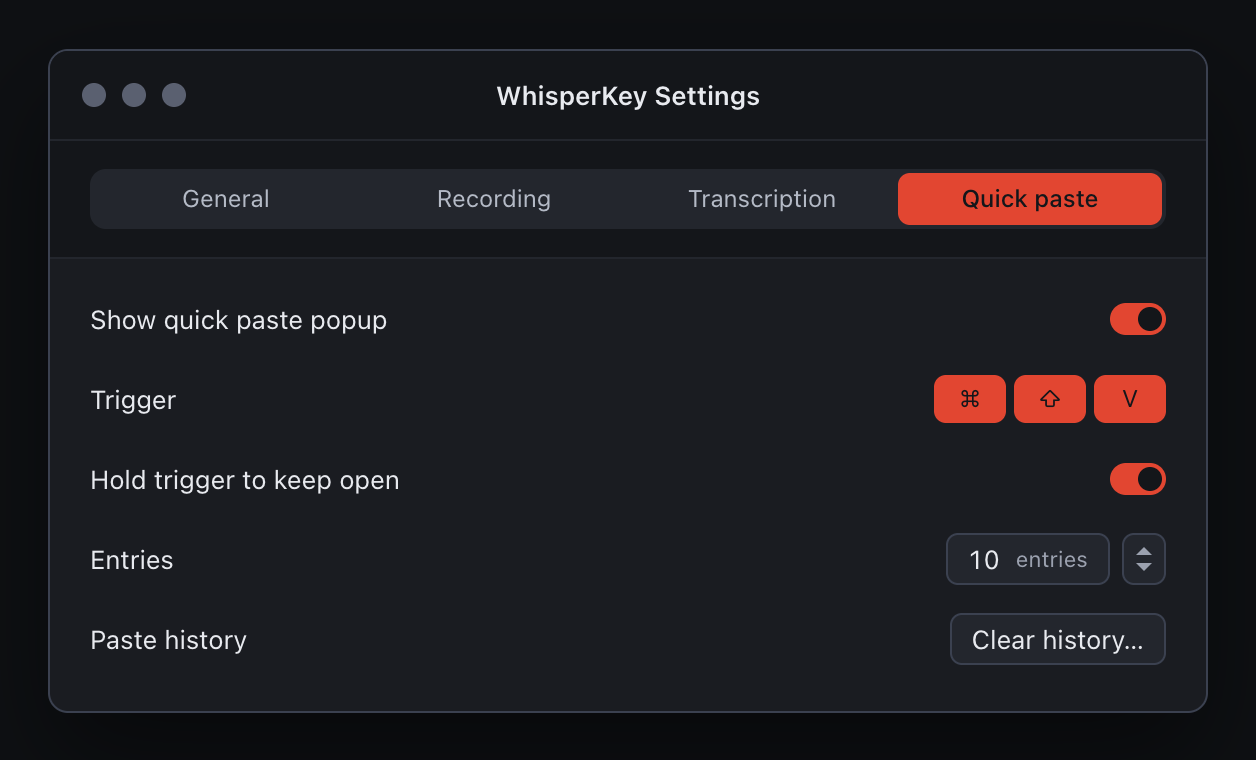
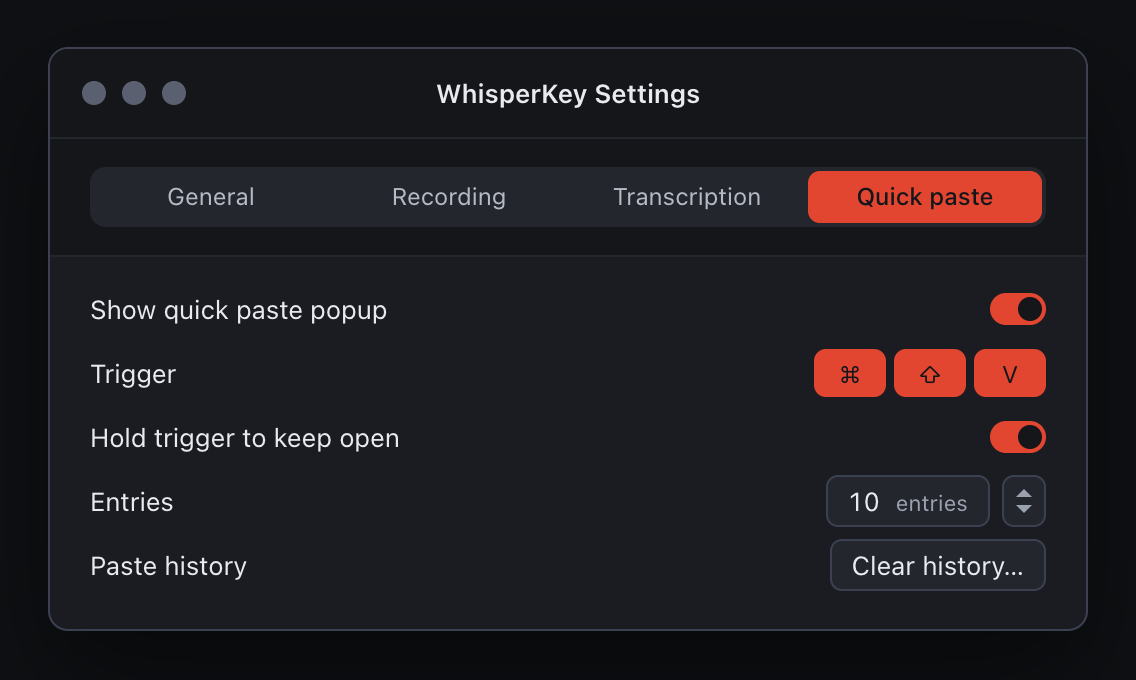
Bring in the revised design: Settings 520 wide with rows of 32
What/Why: the owner asked for one Settings window size in both themes,
halfway between Classic (460, rows of 24) and Midnight (580, rows of 40).
The design agent redrew the four Settings sections at 520 with rows of 32;
this brings that design file into the repository with its mockups.

1. docs/design/dark/master-design.dc.html replaced with the revised file:
   Settings sections 520 wide, form row 32, a "+ settings window 520" sheet
   entry, and a new Theme row drawn with 40pt icons and names under them.
   support.js is unchanged.
2. docs/design/tokens.md follows the sheet: form row 32, + settings window
   520, the Theme picker entry.
3. The four settings-*.png re-exported, settings-theme-row.png added.
4. scripts/export-mockups.mjs: the headless-Chrome export the mockups
   README described in prose, now a script; the README points to it.
5. ThemeTokens.midnight.sizes.formRow 40 -> 32, held to tokens.md by
   TokenSheetTests. Nothing on master draws with it yet.

Tests: scripts/verify.sh -t green, 556 tests, 0 failures. TokenSheetTests
fails with formRow left at 40 (checked). Mockups inspected by eye.
Risk: low; design documents, one token no view reads yet.

diff --git a/docs/design/dark/master-design.dc.html b/docs/design/dark/master-design.dc.html
@@ -77,11 +77,12 @@
         <div style="display:flex;gap:10px;align-items:center"><div style="width:20px;height:20px;border-radius:4px;border:1px solid #5A6070;flex:none"></div>+ 4 · checkbox</div>
         <div style="height:1px;background:#23262D;margin:5px 0"></div>
         <div><span style="color:#9BA1AF">list row</span> 34 <span style="color:#9BA1AF">· popover, quick paste, full history, checklist</span></div>
-        <div><span style="color:#9BA1AF">form row</span> 40 <span style="color:#9BA1AF">· Settings</span></div>
+        <div><span style="color:#9BA1AF">form row</span> 32 <span style="color:#9BA1AF">· Settings</span></div>
         <div><span style="color:#9BA1AF">panel bar</span> 36 · <span style="color:#9BA1AF">titlebar</span> 44 · <span style="color:#9BA1AF">+ action bar</span> 48</div>
         <div><span style="color:#9BA1AF">menu item</span> 30 · <span style="color:#9BA1AF">control</span> 26 · <span style="color:#9BA1AF">keycap, badge</span> 18</div>
         <div><span style="color:#9BA1AF">toggle</span> 28×16 · <span style="color:#9BA1AF">+ checkbox</span> 14 · <span style="color:#9BA1AF">dot</span> 6 · <span style="color:#9BA1AF">bar</span> 2×18</div>
         <div><span style="color:#9BA1AF">widths</span> panel 320 · quick paste 328 · toast 380</div>
+        <div><span style="color:#9BA1AF">+ settings window</span> 520 <span style="color:#9BA1AF">· Settings, both themes</span></div>
       </div>
     </div>
 
@@ -106,6 +107,7 @@
         <div><strong style="font-weight:600">Checkbox</strong> <span style="color:#9BA1AF">— 14, radius 4. Off: 06 edge on 02. On and mixed: 08 fill, 01 mark</span></div>
         <div><strong style="font-weight:600">Action bar</strong> <span style="color:#9BA1AF">— 48 on 01, the panel footer at window scale</span></div>
         <div><strong style="font-weight:600">Row names</strong> <span style="color:#9BA1AF">— 34 is now “list row”, 40 “form row”</span></div>
+        <div><strong style="font-weight:600">Theme picker</strong> <span style="color:#9BA1AF">— 40 icon, radius 8. Selected: 2pt red outline, offset 2. Rest: 05 edge, hover 04 fill</span></div>
         <div><strong style="font-weight:600">Green, failure</strong> <span style="color:#9BA1AF">— extended to Granted and Needs access</span></div>
       </div>
     </div>
@@ -114,7 +116,7 @@
   <!-- MENU BAR POPOVER + SETTINGS -->
   <div style="margin-top:56px;display:flex;align-items:baseline;gap:12px">
     <div style="font-size:15px;font-weight:600;color:#E8EAEF">Menu bar popover and Settings</div>
-    <div style="font-size:12px;color:#9BA1AF">popover 320 under the menu bar · Settings 580, four tabs</div>
+    <div style="font-size:12px;color:#9BA1AF">popover 320 under the menu bar · Settings 520, four tabs</div>
   </div>
   <div style="margin-top:22px">
     <div style="display:flex;gap:44px;align-items:flex-start">
@@ -338,9 +340,9 @@
 
       <!-- ── SETTINGS ─────────────────────────────────────── -->
       <div style="width:580px;flex:none">
-        <div style="font-size:11px;font-weight:500;letter-spacing:0.06em;color:#9BA1AF;margin-bottom:10px">SETTINGS WINDOW · 580 WIDE</div>
+        <div style="font-size:11px;font-weight:500;letter-spacing:0.06em;color:#9BA1AF;margin-bottom:10px">SETTINGS WINDOW · 520 WIDE</div>
 
-        <div style="width:580px;background:#1A1C21;border:1px solid #3B4150;border-radius:10px;box-shadow:0 24px 52px rgba(0,0,0,0.45);overflow:hidden;box-sizing:border-box" data-screen-label="Settings General">
+        <div style="width:520px;background:#1A1C21;border:1px solid #3B4150;border-radius:10px;box-shadow:0 24px 52px rgba(0,0,0,0.45);overflow:hidden;box-sizing:border-box" data-screen-label="Settings General">
           <div style="position:relative;height:44px;display:flex;align-items:center;padding:0 16px;background:#14161A">
             <div style="display:flex;gap:8px">
               <div style="width:12px;height:12px;border-radius:6px;background:#5A6070"></div>
@@ -358,11 +360,12 @@
             </div>
           </div>
           <div style="border-top:1px solid #23262D;padding:10px 20px 16px">
-            <div style="display:flex;align-items:center;height:40px">
+            <div style="display:flex;align-items:center;height:32px">
               <div style="flex:1;font-size:13px;color:#E8EAEF">Launch at login</div>
               <div style="width:28px;height:16px;border-radius:8px;background:#E24631;position:relative"><div style="position:absolute;top:2px;right:2px;width:12px;height:12px;border-radius:6px;background:#14161A"></div></div>
             </div>
-            <div style="display:flex;align-items:center;gap:6px;height:40px">
+            <div style="display:flex;align-items:flex-start;gap:8px;padding:8px 0 10px"><div style="flex:1;font-size:13px;color:#E8EAEF;line-height:40px">Theme</div><div style="display:flex;gap:12px"><sc-if value="{{ classicSel }}" hint-placeholder-val="{{ true }}"><div style="width:48px;display:flex;flex-direction:column;align-items:center;gap:6px"><div style="position:relative;width:40px;height:40px;box-sizing:border-box;border-radius:8px;flex:none;cursor:pointer;border:1px solid transparent;outline:2px solid #E24631;outline-offset:2px"><div style="position:absolute;left:5px;top:7px;width:28px;height:24px;box-sizing:border-box;border:1px solid #C8C8C8;border-radius:4px;background:#F5F5F5;overflow:hidden"><div style="position:absolute;left:0;right:0;top:0;height:5px;background:#E3E3E3"></div><div style="position:absolute;left:7px;top:9px;width:14px;height:2px;border-radius:1px;background:#C7C7CC"></div><div style="position:absolute;left:7px;top:13px;width:10px;height:2px;border-radius:1px;background:#C7C7CC"></div><div style="position:absolute;left:7px;top:17px;width:12px;height:2px;border-radius:1px;background:#C7C7CC"></div><div style="position:absolute;left:3px;top:7px;width:2px;height:6px;border-radius:1px;background:#007AFF"></div></div></div><div style="font-size:11px;line-height:13px;color:#E8EAEF">Classic</div></div></sc-if><sc-if value="{{ midnightSel }}" hint-placeholder-val="{{ false }}"><div style="width:48px;display:flex;flex-direction:column;align-items:center;gap:6px" onClick="{{ pickClassic }}"><div style="position:relative;width:40px;height:40px;box-sizing:border-box;border-radius:8px;flex:none;cursor:pointer;border:1px solid #3B4150" style-hover="background:#2E323B"><div style="position:absolute;left:5px;top:7px;width:28px;height:24px;box-sizing:border-box;border:1px solid #C8C8C8;border-radius:4px;background:#F5F5F5;overflow:hidden"><div style="position:absolute;left:0;right:0;top:0;height:5px;background:#E3E3E3"></div><div style="position:absolute;left:7px;top:9px;width:14px;height:2px;border-radius:1px;background:#C7C7CC"></div><div style="position:absolute;left:7px;top:13px;width:10px;height:2px;border-radius:1px;background:#C7C7CC"></div><div style="position:absolute;left:7px;top:17px;width:12px;height:2px;border-radius:1px;background:#C7C7CC"></div><div style="position:absolute;left:3px;top:7px;width:2px;height:6px;border-radius:1px;background:#007AFF"></div></div></div><div style="font-size:11px;line-height:13px;color:#B4BAC6">Classic</div></div></sc-if><sc-if value="{{ midnightSel }}" hint-placeholder-val="{{ false }}"><div style="width:48px;display:flex;flex-direction:column;align-items:center;gap:6px"><div style="position:relative;width:40px;height:40px;box-sizing:border-box;border-radius:8px;flex:none;cursor:pointer;border:1px solid transparent;outline:2px solid #E24631;outline-offset:2px"><div style="position:absolute;left:5px;top:7px;width:28px;height:24px;box-sizing:border-box;border:1px solid #3B4150;border-radius:4px;background:#1A1C21;overflow:hidden"><div style="position:absolute;left:0;right:0;top:0;height:5px;background:#14161A"></div><div style="position:absolute;left:7px;top:9px;width:14px;height:2px;border-radius:1px;background:#5A6070"></div><div style="position:absolute;left:7px;top:13px;width:10px;height:2px;border-radius:1px;background:#5A6070"></div><div style="position:absolute;left:7px;top:17px;width:12px;height:2px;border-radius:1px;background:#5A6070"></div><div style="position:absolute;left:3px;top:7px;width:2px;height:6px;border-radius:1px;background:#E24631"></div></div></div><div style="font-size:11px;line-height:13px;color:#E8EAEF">Midnight</div></div></sc-if><sc-if value="{{ classicSel }}" hint-placeholder-val="{{ true }}"><div style="width:48px;display:flex;flex-direction:column;align-items:center;gap:6px" onClick="{{ pickMidnight }}"><div style="position:relative;width:40px;height:40px;box-sizing:border-box;border-radius:8px;flex:none;cursor:pointer;border:1px solid #3B4150" style-hover="background:#2E323B"><div style="position:absolute;left:5px;top:7px;width:28px;height:24px;box-sizing:border-box;border:1px solid #3B4150;border-radius:4px;background:#1A1C21;overflow:hidden"><div style="position:absolute;left:0;right:0;top:0;height:5px;background:#14161A"></div><div style="position:absolute;left:7px;top:9px;width:14px;height:2px;border-radius:1px;background:#5A6070"></div><div style="position:absolute;left:7px;top:13px;width:10px;height:2px;border-radius:1px;background:#5A6070"></div><div style="position:absolute;left:7px;top:17px;width:12px;height:2px;border-radius:1px;background:#5A6070"></div><div style="position:absolute;left:3px;top:7px;width:2px;height:6px;border-radius:1px;background:#E24631"></div></div></div><div style="font-size:11px;line-height:13px;color:#B4BAC6">Midnight</div></div></sc-if></div></div>
+            <div style="display:flex;align-items:center;gap:6px;height:32px">
               <div style="flex:1;font-size:13px;color:#E8EAEF">History size</div>
               <div style="display:flex;align-items:center;gap:8px;height:26px;padding:0 10px;border-radius:6px;background:#23262D;border:1px solid #3B4150;box-sizing:border-box">
                 <div style="font-size:13px;color:#E8EAEF;font-variant-numeric:tabular-nums">30</div>
@@ -373,14 +376,23 @@
                 <div style="width:0;height:0;border-left:4px solid transparent;border-right:4px solid transparent;border-top:4px solid #9BA1AF"></div>
               </div>
             </div>
-            <div style="display:flex;align-items:center;height:40px">
+            <div style="display:flex;align-items:center;height:32px">
               <div style="flex:1;font-size:13px;color:#E8EAEF">Usage data</div>
               <div style="font-size:13px;color:#E8EAEF;line-height:24px;padding:0 10px;border-radius:6px;background:#23262D;border:1px solid #3B4150">Reset usage…</div>
             </div>
           </div>
         </div>
 
-        <div style="width:580px;margin-top:28px;background:#1A1C21;border:1px solid #3B4150;border-radius:10px;box-shadow:0 24px 52px rgba(0,0,0,0.45);overflow:hidden;box-sizing:border-box" data-screen-label="Settings Transcription">
+        <div style="width:580px;margin-top:16px" data-screen-label="Theme row states">
+          <div style="font-size:11px;font-weight:500;letter-spacing:0.06em;color:#9BA1AF;margin-bottom:10px">THEME ROW · SETTINGS › GENERAL</div>
+          <div style="display:grid;grid-template-columns:repeat(3,minmax(0,1fr));gap:12px"><div><div style="font-size:11px;font-weight:500;letter-spacing:0.06em;color:#9BA1AF;margin-bottom:8px">CLASSIC · DEFAULT</div><div style="background:#1A1C21;border:1px solid #3B4150;border-radius:10px;padding:0 14px"><div style="display:flex;align-items:flex-start;gap:8px;padding:8px 0 10px"><div style="flex:1;font-size:13px;color:#E8EAEF;line-height:40px">Theme</div><div style="display:flex;gap:12px"><div style="width:48px;display:flex;flex-direction:column;align-items:center;gap:6px"><div style="position:relative;width:40px;height:40px;box-sizing:border-box;border-radius:8px;flex:none;cursor:pointer;border:1px solid transparent;outline:2px solid #E24631;outline-offset:2px"><div style="position:absolute;left:5px;top:7px;width:28px;height:24px;box-sizing:border-box;border:1px solid #C8C8C8;border-radius:4px;background:#F5F5F5;overflow:hidden"><div style="position:absolute;left:0;right:0;top:0;height:5px;background:#E3E3E3"></div><div style="position:absolute;left:7px;top:9px;width:14px;height:2px;border-radius:1px;background:#C7C7CC"></div><div style="position:absolute;left:7px;top:13px;width:10px;height:2px;border-radius:1px;background:#C7C7CC"></div><div style="position:absolute;left:7px;top:17px;width:12px;height:2px;border-radius:1px;background:#C7C7CC"></div><div style="position:absolute;left:3px;top:7px;width:2px;height:6px;border-radius:1px;background:#007AFF"></div></div></div><div style="font-size:11px;line-height:13px;color:#E8EAEF">Classic</div></div><div style="width:48px;display:flex;flex-direction:column;align-items:center;gap:6px"><div style="position:relative;width:40px;height:40px;box-sizing:border-box;border-radius:8px;flex:none;cursor:pointer;border:1px solid #3B4150"><div style="position:absolute;left:5px;top:7px;width:28px;height:24px;box-sizing:border-box;border:1px solid #3B4150;border-radius:4px;background:#1A1C21;overflow:hidden"><div style="position:absolute;left:0;right:0;top:0;height:5px;background:#14161A"></div><div style="position:absolute;left:7px;top:9px;width:14px;height:2px;border-radius:1px;background:#5A6070"></div><div style="position:absolute;left:7px;top:13px;width:10px;height:2px;border-radius:1px;background:#5A6070"></div><div style="position:absolute;left:7px;top:17px;width:12px;height:2px;border-radius:1px;background:#5A6070"></div><div style="position:absolute;left:3px;top:7px;width:2px;height:6px;border-radius:1px;background:#E24631"></div></div></div><div style="font-size:11px;line-height:13px;color:#B4BAC6">Midnight</div></div></div></div></div></div><div><div style="font-size:11px;font-weight:500;letter-spacing:0.06em;color:#9BA1AF;margin-bottom:8px">MIDNIGHT</div><div style="background:#1A1C21;border:1px solid #3B4150;border-radius:10px;padding:0 14px"><div style="display:flex;align-items:flex-start;gap:8px;padding:8px 0 10px"><div style="flex:1;font-size:13px;color:#E8EAEF;line-height:40px">Theme</div><div style="display:flex;gap:12px"><div style="width:48px;display:flex;flex-direction:column;align-items:center;gap:6px"><div style="position:relative;width:40px;height:40px;box-sizing:border-box;border-radius:8px;flex:none;cursor:pointer;border:1px solid #3B4150"><div style="position:absolute;left:5px;top:7px;width:28px;height:24px;box-sizing:border-box;border:1px solid #C8C8C8;border-radius:4px;background:#F5F5F5;overflow:hidden"><div style="position:absolute;left:0;right:0;top:0;height:5px;background:#E3E3E3"></div><div style="position:absolute;left:7px;top:9px;width:14px;height:2px;border-radius:1px;background:#C7C7CC"></div><div style="position:absolute;left:7px;top:13px;width:10px;height:2px;border-radius:1px;background:#C7C7CC"></div><div style="position:absolute;left:7px;top:17px;width:12px;height:2px;border-radius:1px;background:#C7C7CC"></div><div style="position:absolute;left:3px;top:7px;width:2px;height:6px;border-radius:1px;background:#007AFF"></div></div></div><div style="font-size:11px;line-height:13px;color:#B4BAC6">Classic</div></div><div style="width:48px;display:flex;flex-direction:column;align-items:center;gap:6px"><div style="position:relative;width:40px;height:40px;box-sizing:border-box;border-radius:8px;flex:none;cursor:pointer;border:1px solid transparent;outline:2px solid #E24631;outline-offset:2px"><div style="position:absolute;left:5px;top:7px;width:28px;height:24px;box-sizing:border-box;border:1px solid #3B4150;border-radius:4px;background:#1A1C21;overflow:hidden"><div style="position:absolute;left:0;right:0;top:0;height:5px;background:#14161A"></div><div style="position:absolute;left:7px;top:9px;width:14px;height:2px;border-radius:1px;background:#5A6070"></div><div style="position:absolute;left:7px;top:13px;width:10px;height:2px;border-radius:1px;background:#5A6070"></div><div style="position:absolute;left:7px;top:17px;width:12px;height:2px;border-radius:1px;background:#5A6070"></div><div style="position:absolute;left:3px;top:7px;width:2px;height:6px;border-radius:1px;background:#E24631"></div></div></div><div style="font-size:11px;line-height:13px;color:#E8EAEF">Midnight</div></div></div></div></div></div><div><div style="font-size:11px;font-weight:500;letter-spacing:0.06em;color:#9BA1AF;margin-bottom:8px">HOVER · UNSELECTED</div><div style="background:#1A1C21;border:1px solid #3B4150;border-radius:10px;padding:0 14px"><div style="display:flex;align-items:flex-start;gap:8px;padding:8px 0 10px"><div style="flex:1;font-size:13px;color:#E8EAEF;line-height:40px">Theme</div><div style="display:flex;gap:12px"><div style="width:48px;display:flex;flex-direction:column;align-items:center;gap:6px"><div style="position:relative;width:40px;height:40px;box-sizing:border-box;border-radius:8px;flex:none;cursor:pointer;border:1px solid transparent;outline:2px solid #E24631;outline-offset:2px"><div style="position:absolute;left:5px;top:7px;width:28px;height:24px;box-sizing:border-box;border:1px solid #C8C8C8;border-radius:4px;background:#F5F5F5;overflow:hidden"><div style="position:absolute;left:0;right:0;top:0;height:5px;background:#E3E3E3"></div><div style="position:absolute;left:7px;top:9px;width:14px;height:2px;border-radius:1px;background:#C7C7CC"></div><div style="position:absolute;left:7px;top:13px;width:10px;height:2px;border-radius:1px;background:#C7C7CC"></div><div style="position:absolute;left:7px;top:17px;width:12px;height:2px;border-radius:1px;background:#C7C7CC"></div><div style="position:absolute;left:3px;top:7px;width:2px;height:6px;border-radius:1px;background:#007AFF"></div></div></div><div style="font-size:11px;line-height:13px;color:#E8EAEF">Classic</div></div><div style="width:48px;display:flex;flex-direction:column;align-items:center;gap:6px"><div style="position:relative;width:40px;height:40px;box-sizing:border-box;border-radius:8px;flex:none;cursor:pointer;border:1px solid #3B4150;background:#2E323B"><div style="position:absolute;left:5px;top:7px;width:28px;height:24px;box-sizing:border-box;border:1px solid #3B4150;border-radius:4px;background:#1A1C21;overflow:hidden"><div style="position:absolute;left:0;right:0;top:0;height:5px;background:#14161A"></div><div style="position:absolute;left:7px;top:9px;width:14px;height:2px;border-radius:1px;background:#5A6070"></div><div style="position:absolute;left:7px;top:13px;width:10px;height:2px;border-radius:1px;background:#5A6070"></div><div style="position:absolute;left:7px;top:17px;width:12px;height:2px;border-radius:1px;background:#5A6070"></div><div style="position:absolute;left:3px;top:7px;width:2px;height:6px;border-radius:1px;background:#E24631"></div></div></div><div style="font-size:11px;line-height:13px;color:#B4BAC6">Midnight</div></div></div></div></div></div></div>
+          <div style="margin-top:20px"><div style="font-size:11px;font-weight:500;letter-spacing:0.06em;color:#9BA1AF;margin-bottom:10px">ICONS · 2× FOR EXPORT</div><div style="display:flex;gap:24px"><div style="display:flex;flex-direction:column;gap:8px"><div style="background:#1A1C21;border-radius:10px;padding:16px;width:max-content"><div id="theme-icon-classic-2x" data-screen-label="Theme icon Classic 2x" style="position:relative;width:80px;height:80px;border-radius:16px"><div style="position:absolute;left:12px;top:16px;width:56px;height:48px;box-sizing:border-box;border:2px solid #C8C8C8;border-radius:8px;background:#F5F5F5;overflow:hidden"><div style="position:absolute;left:0;right:0;top:0;height:10px;background:#E3E3E3"></div><div style="position:absolute;left:14px;top:18px;width:28px;height:4px;border-radius:2px;background:#C7C7CC"></div><div style="position:absolute;left:14px;top:26px;width:20px;height:4px;border-radius:2px;background:#C7C7CC"></div><div style="position:absolute;left:14px;top:34px;width:24px;height:4px;border-radius:2px;background:#C7C7CC"></div><div style="position:absolute;left:6px;top:14px;width:4px;height:12px;border-radius:2px;background:#007AFF"></div></div></div></div><div style="font-size:11px;color:#9BA1AF">theme-classic@2x · 80 × 80</div></div><div style="display:flex;flex-direction:column;gap:8px"><div style="background:#1A1C21;border-radius:10px;padding:16px;width:max-content"><div id="theme-icon-midnight-2x" data-screen-label="Theme icon Midnight 2x" style="position:relative;width:80px;height:80px;border-radius:16px"><div style="position:absolute;left:12px;top:16px;width:56px;height:48px;box-sizing:border-box;border:2px solid #3B4150;border-radius:8px;background:#1A1C21;overflow:hidden"><div style="position:absolute;left:0;right:0;top:0;height:10px;background:#14161A"></div><div style="position:absolute;left:14px;top:18px;width:28px;height:4px;border-radius:2px;background:#5A6070"></div><div style="position:absolute;left:14px;top:26px;width:20px;height:4px;border-radius:2px;background:#5A6070"></div><div style="position:absolute;left:14px;top:34px;width:24px;height:4px;border-radius:2px;background:#5A6070"></div><div style="position:absolute;left:6px;top:14px;width:4px;height:12px;border-radius:2px;background:#E24631"></div></div></div></div><div style="font-size:11px;color:#9BA1AF">theme-midnight@2x · 80 × 80</div></div></div></div>
+          <sc-if value="{{ showNotes }}" hint-placeholder-val="{{ true }}">
+          <div style="margin-top:12px;font-size:12px;line-height:1.5;color:#9BA1AF;text-wrap:pretty">The row grows past 40 to hold a 40 icon, 6 gap and an 11 name; the label centres on the icons. A click repaints every window at once, so there is no Save. Classic’s preview is the only place macOS system greys and system blue #007AFF appear: it describes the other theme. Exports are transparent outside the shell so the app can draw edge, hover fill and outline itself.</div>
+          </sc-if>
+        </div>
+
+        <div style="width:520px;margin-top:28px;background:#1A1C21;border:1px solid #3B4150;border-radius:10px;box-shadow:0 24px 52px rgba(0,0,0,0.45);overflow:hidden;box-sizing:border-box" data-screen-label="Settings Transcription">
           <div style="position:relative;height:44px;display:flex;align-items:center;padding:0 16px;background:#14161A">
             <div style="display:flex;gap:8px">
               <div style="width:12px;height:12px;border-radius:6px;background:#5A6070"></div>
@@ -398,7 +410,7 @@
             </div>
           </div>
           <div style="border-top:1px solid #23262D;padding:10px 20px 16px">
-            <div style="display:flex;align-items:center;height:40px">
+            <div style="display:flex;align-items:center;height:32px">
               <div style="flex:1;font-size:13px;color:#E8EAEF">Provider</div>
               <div style="display:flex;align-items:center;gap:10px;height:26px;padding:0 10px;border-radius:6px;background:#23262D;border:1px solid #3B4150;box-sizing:border-box;min-width:150px">
                 <div style="flex:1;font-size:13px;color:#E8EAEF">OpenAI</div>
@@ -408,7 +420,7 @@
                 </div>
               </div>
             </div>
-            <div style="display:flex;align-items:center;height:40px">
+            <div style="display:flex;align-items:center;height:32px">
               <div style="flex:1;font-size:13px;color:#E8EAEF">Model</div>
               <div style="display:flex;align-items:center;gap:10px;height:26px;padding:0 10px;border-radius:6px;background:#23262D;border:1px solid #3B4150;box-sizing:border-box;min-width:150px">
                 <div style="flex:1;font-size:13px;color:#E8EAEF">gpt-transcribe</div>
@@ -418,7 +430,7 @@
                 </div>
               </div>
             </div>
-            <div style="display:flex;align-items:center;gap:8px;height:40px">
+            <div style="display:flex;align-items:center;gap:8px;height:32px">
               <div style="flex:1;font-size:13px;color:#E8EAEF">API key</div>
               <div style="display:flex;align-items:center;gap:5px;flex:none">
                 <div style="width:6px;height:6px;border-radius:3px;background:#78BE20"></div>
@@ -427,7 +439,7 @@
               <div style="width:150px;height:26px;padding:0 10px;border-radius:6px;background:#23262D;border:1px solid #3B4150;box-sizing:border-box;display:flex;align-items:center;font-size:13px;color:#9BA1AF;letter-spacing:0.12em">•••••••••••</div>
               <div style="font-size:13px;color:#E8EAEF;line-height:24px;padding:0 10px;border-radius:6px;background:#23262D;border:1px solid #3B4150">Delete</div>
             </div>
-            <div style="display:flex;align-items:center;height:40px">
+            <div style="display:flex;align-items:center;height:32px">
               <div style="flex:1;font-size:13px;color:#E8EAEF">Language</div>
               <div style="display:flex;align-items:center;gap:10px;height:26px;padding:0 10px;border-radius:6px;background:#23262D;border:1px solid #3B4150;box-sizing:border-box;min-width:150px">
                 <div style="flex:1;font-size:13px;color:#E8EAEF">Auto</div>
@@ -476,7 +488,7 @@
           <div style="font-size:11px;font-weight:500;letter-spacing:0.06em;color:#9BA1AF;margin-bottom:10px">RECORDING · QUICK PASTE · SAME GRAMMAR</div>
           <div style="display:flex;flex-direction:column;gap:28px">
             <div style="width:580px;flex:none">
-              <div style="width:580px;box-shadow:0 24px 52px rgba(0,0,0,0.45);background:#1A1C21;border:1px solid #3B4150;border-radius:10px;box-sizing:border-box;overflow:hidden" data-screen-label="Settings Recording">
+              <div style="width:520px;box-shadow:0 24px 52px rgba(0,0,0,0.45);background:#1A1C21;border:1px solid #3B4150;border-radius:10px;box-sizing:border-box;overflow:hidden" data-screen-label="Settings Recording">
                 <div style="position:relative;height:44px;display:flex;align-items:center;padding:0 16px;background:#14161A">
                   <div style="display:flex;gap:8px">
                     <div style="width:12px;height:12px;border-radius:6px;background:#5A6070"></div>
@@ -494,29 +506,29 @@
                   </div>
                 </div>
                 <div style="border-top:1px solid #23262D;padding:10px 20px 16px">
-                  <div style="display:flex;align-items:center;height:40px">
+                  <div style="display:flex;align-items:center;height:32px">
                     <div style="flex:1;font-size:13px;color:#E8EAEF">Trigger</div>
                     <div style="display:flex;gap:4px">
                       <div style="min-width:24px;height:24px;padding:0 6px;border-radius:6px;background:#E24631;font-size:12px;color:#14161A;display:flex;align-items:center;justify-content:center">⌥</div>
                       <div style="min-width:24px;height:24px;padding:0 8px;border-radius:6px;background:#E24631;font-size:12px;color:#14161A;display:flex;align-items:center;justify-content:center">Space</div>
                     </div>
                   </div>
-                  <div style="display:flex;align-items:center;height:40px">
+                  <div style="display:flex;align-items:center;height:32px">
                     <div style="flex:1;font-size:13px;color:#E8EAEF">Mode</div>
                     <div style="display:flex;gap:2px;background:#23262D;border-radius:6px;padding:2px;width:150px">
                       <div style="flex:1;text-align:center;font-size:12px;font-weight:500;color:#14161A;line-height:22px;border-radius:4px;background:#E24631">Hold</div>
                       <div style="flex:1;text-align:center;font-size:12px;color:#B4BAC6;line-height:22px;border-radius:4px">Toggle</div>
                     </div>
                   </div>
-                  <div style="display:flex;align-items:center;height:40px">
+                  <div style="display:flex;align-items:center;height:32px">
                     <div style="flex:1;font-size:13px;color:#E8EAEF">Esc cancels recording</div>
                     <div style="width:28px;height:16px;border-radius:8px;background:#E24631;position:relative"><div style="position:absolute;top:2px;right:2px;width:12px;height:12px;border-radius:6px;background:#14161A"></div></div>
                   </div>
-                  <div style="display:flex;align-items:center;height:40px">
+                  <div style="display:flex;align-items:center;height:32px">
                     <div style="flex:1;font-size:13px;color:#E8EAEF">Sound effects</div>
                     <div style="width:28px;height:16px;border-radius:8px;background:#E24631;position:relative"><div style="position:absolute;top:2px;right:2px;width:12px;height:12px;border-radius:6px;background:#14161A"></div></div>
                   </div>
-                  <div style="display:flex;align-items:center;height:40px">
+                  <div style="display:flex;align-items:center;height:32px">
                     <div style="flex:1;font-size:13px;color:#E8EAEF">Pause music while recording</div>
                     <div style="width:28px;height:16px;border-radius:8px;background:#2E323B;position:relative"><div style="position:absolute;top:2px;left:2px;width:12px;height:12px;border-radius:6px;background:#8A909E"></div></div>
                   </div>
@@ -524,7 +536,7 @@
               </div>
             </div>
             <div style="width:580px;flex:none">
-              <div style="width:580px;box-shadow:0 24px 52px rgba(0,0,0,0.45);background:#1A1C21;border:1px solid #3B4150;border-radius:10px;box-sizing:border-box;overflow:hidden" data-screen-label="Settings Quick paste">
+              <div style="width:520px;box-shadow:0 24px 52px rgba(0,0,0,0.45);background:#1A1C21;border:1px solid #3B4150;border-radius:10px;box-sizing:border-box;overflow:hidden" data-screen-label="Settings Quick paste">
                 <div style="position:relative;height:44px;display:flex;align-items:center;padding:0 16px;background:#14161A">
                   <div style="display:flex;gap:8px">
                     <div style="width:12px;height:12px;border-radius:6px;background:#5A6070"></div>
@@ -542,11 +554,11 @@
                   </div>
                 </div>
                 <div style="border-top:1px solid #23262D;padding:10px 20px 16px">
-                  <div style="display:flex;align-items:center;height:40px">
+                  <div style="display:flex;align-items:center;height:32px">
                     <div style="flex:1;font-size:13px;color:#E8EAEF">Show quick paste popup</div>
                     <div style="width:28px;height:16px;border-radius:8px;background:#E24631;position:relative"><div style="position:absolute;top:2px;right:2px;width:12px;height:12px;border-radius:6px;background:#14161A"></div></div>
                   </div>
-                  <div style="display:flex;align-items:center;height:40px">
+                  <div style="display:flex;align-items:center;height:32px">
                     <div style="flex:1;font-size:13px;color:#E8EAEF">Trigger</div>
                     <div style="display:flex;gap:4px">
                       <div style="min-width:24px;height:24px;padding:0 6px;border-radius:6px;background:#E24631;font-size:12px;color:#14161A;display:flex;align-items:center;justify-content:center">⌘</div>
@@ -554,11 +566,11 @@
                       <div style="min-width:24px;height:24px;padding:0 6px;border-radius:6px;background:#E24631;font-size:12px;color:#14161A;display:flex;align-items:center;justify-content:center">V</div>
                     </div>
                   </div>
-                  <div style="display:flex;align-items:center;height:40px">
+                  <div style="display:flex;align-items:center;height:32px">
                     <div style="flex:1;font-size:13px;color:#E8EAEF">Hold trigger to keep open</div>
                     <div style="width:28px;height:16px;border-radius:8px;background:#E24631;position:relative"><div style="position:absolute;top:2px;right:2px;width:12px;height:12px;border-radius:6px;background:#14161A"></div></div>
                   </div>
-                  <div style="display:flex;align-items:center;gap:6px;height:40px">
+                  <div style="display:flex;align-items:center;gap:6px;height:32px">
                     <div style="flex:1;font-size:13px;color:#E8EAEF">Entries</div>
                     <div style="display:flex;align-items:center;gap:8px;height:26px;padding:0 10px;border-radius:6px;background:#23262D;border:1px solid #3B4150;box-sizing:border-box">
                       <div style="font-size:13px;color:#E8EAEF;font-variant-numeric:tabular-nums">10</div>
@@ -569,7 +581,7 @@
                       <div style="width:0;height:0;border-left:4px solid transparent;border-right:4px solid transparent;border-top:4px solid #9BA1AF"></div>
                     </div>
                   </div>
-                  <div style="display:flex;align-items:center;height:40px">
+                  <div style="display:flex;align-items:center;height:32px">
                     <div style="flex:1;font-size:13px;color:#E8EAEF">Paste history</div>
                     <div style="font-size:13px;color:#E8EAEF;line-height:24px;padding:0 10px;border-radius:6px;background:#23262D;border:1px solid #3B4150">Clear history…</div>
                   </div>
@@ -1065,7 +1077,11 @@ class Component extends DCLogic {
     return {
       showNotes: this.props.showNotes ?? true,
       showNotch: this.props.showNotch ?? true,
-      showKeycaps: this.props.showKeycaps ?? true
+      showKeycaps: this.props.showKeycaps ?? true,
+      classicSel: (this.state && this.state.theme || 'classic') === 'classic',
+      midnightSel: (this.state && this.state.theme) === 'midnight',
+      pickClassic: () => this.setState({ theme: 'classic' }),
+      pickMidnight: () => this.setState({ theme: 'midnight' })
     };
   }
 }

diff --git a/Sources/ThemeKit/ThemeTokens+Midnight.swift b/Sources/ThemeKit/ThemeTokens+Midnight.swift
@@ -58,7 +58,7 @@ public extension ThemeTokens {
         ),
         sizes: Sizes(
             listRow: 34,
-            formRow: 40,
+            formRow: 32,
             panelBar: 36,
             titlebar: 44,
             actionBar: 48,

diff --git a/docs/design/tokens.md b/docs/design/tokens.md
@@ -63,7 +63,7 @@ points.
 | Name | Size | Usage |
 |---|---|---|
 | list row | 34 | popover, quick paste, full history, checklist |
-| form row | 40 | Settings |
+| form row | 32 | Settings |
 | panel bar | 36 | |
 | titlebar | 44 | |
 | + action bar | 48 | |
@@ -75,8 +75,10 @@ points.
 | dot | 6 | |
 | bar | 2×18 | |
 | widths | panel 320 · quick paste 328 · toast 380 | |
+| + settings window | 520 | Settings, both themes |
 
-The standard row heights asked for in #105 are **list row 34** and **form row 40**.
+The standard row heights asked for in #105 are **list row 34** and **form row 32**. The form row was 40
+until 2026-10-11, when the Settings window was made one size in both themes: 520 wide, rows of 32.
 
 ## Spacing and edges
 
@@ -92,6 +94,7 @@ Text edge 16 in panels, 20 in windows. Rows inset 8 from the shell with 8 inside
 - **Checkbox**: 14, radius 4. Off: 06 edge on 02. On and mixed: 08 fill, 01 mark
 - **Action bar**: 48 on 01, the panel footer at window scale
 - **Row names**: 34 is now "list row", 40 "form row"
+- **Theme picker**: 40 icon, radius 8. Selected: 2pt red outline, offset 2. Rest: 05 edge, hover 04 fill
 - **Green, failure**: extended to Granted and Needs access
 
 ## Values the surfaces use that the sheet does not list

diff --git a/docs/design/mockups/README.md b/docs/design/mockups/README.md
@@ -1,4 +1,5 @@
 # Mockups: Midnight (dark) theme
 
 One PNG per `data-screen-label` section of [`../dark/master-design.dc.html`](../dark/master-design.dc.html) (the Token sheet is transcribed in [`../tokens.md`](../tokens.md) instead), exported on 2026-10-10.
-To regenerate: open the design file in headless Chrome and take an element screenshot of each `[data-screen-label]` section at device scale factor 2, with 24 pt of page background around it for the shadow and the rest of the board hidden.
+The four `settings-*.png` and `settings-theme-row.png` (the "Theme row states" section) were re-exported on 2026-10-11, when the Settings window became 520 wide with rows of 32.
+To regenerate: [`scripts/export-mockups.mjs`](../../../scripts/export-mockups.mjs) opens the design file in headless Chrome and takes an element screenshot of each named `[data-screen-label]` section at device scale factor 2, with 24 pt of page background around it for the shadow and the rest of the board hidden.
